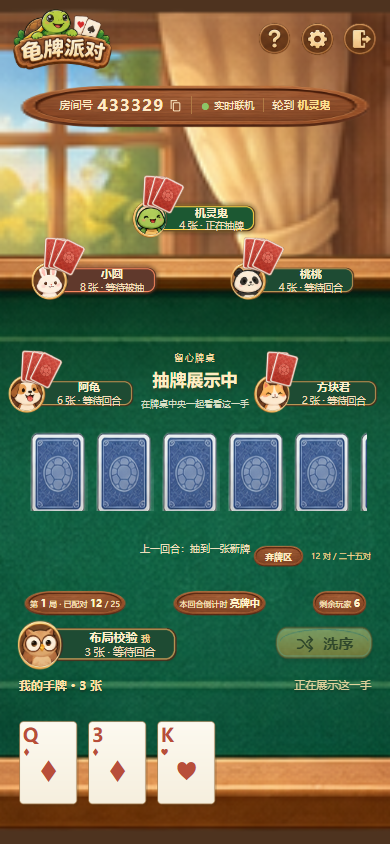
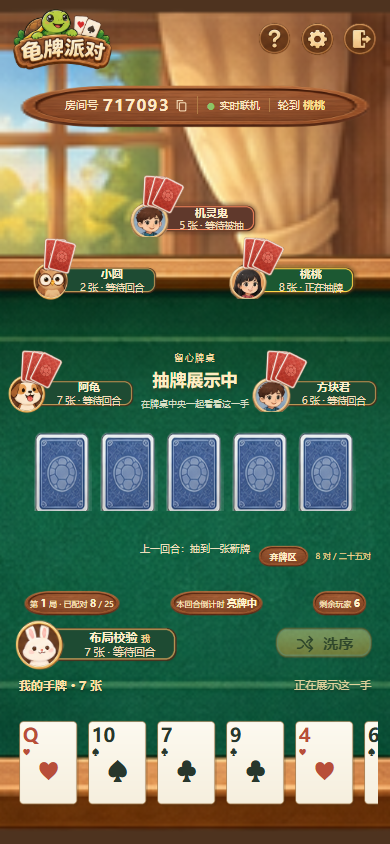
fix: simplify waiting seats and center card draws

diff --git a/public/style.css b/public/style.css
@@ -119,7 +119,7 @@ h1,h2,h3,p{ margin-top:0 }
 .lobby-dock{ height:125px; max-height:125px; display:flex; align-items:end }
 .own-welcome{ margin:0 0 27px 18px; font-size:12px; color:#e4d9ae; letter-spacing:.08em }
 .empty-hand{ padding:38px 20px; font-size:15px; font-weight:800; color:#f6ddb0; text-shadow:0 2px 2px #153b29 }
-.draw-area{ position:absolute; left:45%; top:40%; transform:translateX(-50%); width:min(68%,890px); min-height:220px; display:flex; flex-direction:column; align-items:center; z-index:6 }
+.draw-area{ position:absolute; left:50%; top:40%; transform:translateX(-50%); width:min(68%,890px); min-height:220px; display:flex; flex-direction:column; align-items:center; z-index:6 }
 .round-kicker{ font-size:11px; letter-spacing:.15em; margin-bottom:6px; color:#f4daa2; text-align:center }
 .round-title{ font-size:25px; line-height:1.4; font-weight:900; color:#ffedc2; text-shadow:0 3px 3px #24472f; text-align:center; margin-bottom:4px }
 .round-subtitle{ font-size:11px; color:#d8dfc5; text-align:center; margin-bottom:10px }
@@ -299,12 +299,12 @@ these rules only place assets and HTML. */ .sr-only{ position:absolute; width:1p
 
 
 .pair-effect:before{ content:""; position:absolute; inset:-40px -75px -30px; z-index:-1; opacity:.7; background:url('/assets/effects/gold_sparkles.png') center/contain no-repeat }
-.network-banner{ border:0; background:url('/assets/buttons/button_cream_blank_filled.png') center/100% 100% no-repeat; box-shadow:none; border-radius:0; padding:10px 25px }
+.network-banner{ border:0; background:url('/assets/buttons/button_cream_clean.png') center/100% 100% no-repeat; box-shadow:none; border-radius:0; padding:10px 25px }
 
 /* PNG controls: text sits inside the painted area, not the transparent canvas. */
-.btn{--control-h:52px;--control-font:16px;position:relative;display:inline-block;flex:none;height:var(--control-h);min-height:var(--control-h);min-width:142px;padding:0;border:0;border-radius:0;background:url('/assets/buttons/button_cream_blank_filled.png') center/100% 100% no-repeat;color:#582c10;font-size:var(--control-font);font-weight:800;line-height:1.15;white-space:nowrap;box-shadow:none;transition:transform .15s,filter .15s}
+.btn{--control-h:52px;--control-font:16px;position:relative;display:inline-block;flex:none;height:var(--control-h);min-height:var(--control-h);min-width:142px;padding:0;border:0;border-radius:0;background:url('/assets/buttons/button_cream_clean.png') center/100% 100% no-repeat;color:#582c10;font-size:var(--control-font);font-weight:800;line-height:1.15;white-space:nowrap;box-shadow:none;transition:transform .15s,filter .15s}
 .button-content{position:absolute;inset:14% 6% 20%;display:flex;align-items:center;justify-content:center;gap:8px;line-height:1.15}
-.btn-primary{background-image:url('/assets/buttons/button_gold_blank_filled.png')}
+.btn-primary{background-image:url('/assets/buttons/button_gold_clean.png')}
 .btn .icon{width:22px;height:22px}
 .btn:hover:not(:disabled){transform:translateY(-1px);filter:brightness(1.04)}
 .btn:active:not(:disabled){transform:translateY(1px)}
@@ -331,7 +331,7 @@ these rules only place assets and HTML. */ .sr-only{ position:absolute; width:1p
 .panel-body{min-width:0;max-height:calc(100svh - 44px - var(--art-top) - var(--art-bottom));overflow:auto;overscroll-behavior:contain;scrollbar-width:thin;scrollbar-color:#b48b55 transparent}
 .modal-layer{position:fixed;inset:0;display:grid;place-items:center;padding:16px;z-index:80}
 .modal-panel{width:min(480px,calc(100vw - 32px));max-height:calc(100svh - 32px)}
-.modal-close{position:absolute;right:6%;top:28%;width:28px;height:28px;padding:5px;pointer-events:auto;background:url('/assets/buttons/button_cream_blank_filled.png') center/100% 100% no-repeat}
+.modal-close{position:absolute;right:6%;top:28%;width:28px;height:28px;padding:5px;pointer-events:auto;background:url('/assets/buttons/button_cream_clean.png') center/100% 100% no-repeat}
 .modal-close .icon{width:18px;height:18px;color:#643919}
 .modal-intro{margin:0 0 16px;padding:0;color:#86613e;font-size:14px;line-height:1.65;text-align:center}
 .field{display:grid;grid-template-columns:84px minmax(0,1fr);align-items:center;gap:12px;margin:16px 0;text-align:left}
@@ -369,7 +369,7 @@ these rules only place assets and HTML. */ .sr-only{ position:absolute; width:1p
 .connection-tag[data-status="offline"]:before{color:#e9795a}
 
 /* The player PNG has a circular portrait at left and a fixed text-safe rectangle at right. */
-.seat{--seat-w:200px;position:absolute;left:var(--seat-x,50%);top:var(--seat-y,25%);transform:translate(-50%,-50%);width:var(--seat-w);height:calc(var(--seat-w) * .31034483);min-height:0;display:block;pointer-events:auto;background:url('/assets/players/player_card_blank_default.png') center/100% 100% no-repeat}
+.seat{--seat-w:200px;flex:0 0 auto;aspect-ratio:580/180;padding:0;position:absolute;left:var(--seat-x,50%);top:var(--seat-y,25%);transform:translate(-50%,-50%);width:var(--seat-w);height:calc(var(--seat-w) * .31034483);min-height:0;display:block;pointer-events:auto;background:url('/assets/players/player_card_blank_default.png') center/100% 100% no-repeat}
 .seat.active{background-image:url('/assets/players/player_card_blank_active.png')}
 .seat.target{background-image:url('/assets/players/player_card_blank_target.png')}
 .seat.out{background-image:url('/assets/players/player_card_blank_escaped.png');opacity:.85}
@@ -383,12 +383,12 @@ these rules only place assets and HTML. */ .sr-only{ position:absolute; width:1p
 .seat-fan{position:absolute;left:75%;top:-27px;display:flex;transform:rotate(15deg);z-index:1}
 .seat-fan i{display:block;flex:none;width:33px;height:47px;margin-left:-23px;background:url('/assets/cards/back_red_single.png') center/100% 100% no-repeat;transform:rotate(-12deg)}
 .seat-fan i:nth-child(2){transform:rotate(0deg)}.seat-fan i:nth-child(3){transform:rotate(12deg)}
-.empty-seat{display:flex;align-items:center;justify-content:center;padding-left:28%;opacity:.75}
-.empty-seat>span{color:#f2dfb7;font-size:13px;font-weight:700}
+
+
 .own-seat{--seat-w:190px;position:relative;left:auto;top:auto;transform:none;margin-bottom:12px}
 .own-seat .seat-fan{display:none}
 .own-dock{grid-template-columns:190px minmax(0,1fr) 116px}
-.remove-bot{position:absolute;right:-3px;top:-9px;display:grid;place-items:center;width:30px;height:30px;border:0;padding:4px;background:url('/assets/buttons/button_cream_blank_filled.png') center/100% 100% no-repeat;color:#733e25;z-index:4}
+.remove-bot{position:absolute;right:-3px;top:-9px;display:grid;place-items:center;width:30px;height:30px;border:0;padding:4px;background:url('/assets/buttons/button_cream_clean.png') center/100% 100% no-repeat;color:#733e25;z-index:4}
 .remove-bot .icon{width:16px;height:16px}
 .remove-bot:after{content:"";position:absolute;inset:-7px}
 .dock-title{font-size:13px}.dock-sub{font-size:12px}

diff --git a/public/app.js b/public/app.js
@@ -9,7 +9,7 @@ const state = {
   busy:false, toastTimeout:null, dragged:null, touchDrag:null,
   effectActive:null, queuedSnapshot:null, waitingUntil:0, lastEffectKey:null,
   dialog:null, dialogKey:null, sceneMode:null,
-  preferences:{sound:localStorage.getItem('turtle-sound')==='on',reduceMotion:localStorage.getItem('turtle-reduce-motion')==='on'}
+  preferences:{sound:localStorage.getItem('turtle-sound')!=='off',reduceMotion:localStorage.getItem('turtle-reduce-motion')==='on'}
 };
 const h = (str='') => String(str).replace(/[&<>"']/g,c=>({'&':'&amp;','<':'&lt;','>':'&gt;','"':'&quot;',"'":'&#39;'}[c]));
 const getName = () => localStorage.getItem('turtle-name') || '玩家';
@@ -347,7 +347,7 @@ function tableSeats(v,lobby=false) {
   const mine=v.players.findIndex(p=>p.id===v.myId);
   return `<div class="seat-ring" data-capacity="${v.capacity}">${positions[v.capacity].map(([x,y],i)=>{
     const player=v.players[(mine+i+1)%v.capacity];
-    return player?seat(player,v,lobby,`--seat-x:${x}%;--seat-y:${y}%`):`<div class="seat empty-seat" style="--seat-x:${x}%;--seat-y:${y}%"><span>空位</span></div>`;
+    return player?seat(player,v,lobby,`--seat-x:${x}%;--seat-y:${y}%`):'<span class="seat-slot" hidden aria-hidden="true"></span>';
   }).join('')}</div>`;
 }
 function roomView(v) {
@@ -424,11 +424,19 @@ function finishView(v) {
 const pause = ms => new Promise(resolve=>setTimeout(resolve,ms));
 const reducedMotion = () => state.preferences.reduceMotion || window.matchMedia?.('(prefers-reduced-motion: reduce)').matches;
 let audioContext=null;
+function unlockAudio() {
+  if(!state.preferences.sound)return null;
+  const Audio=window.AudioContext||window.webkitAudioContext;if(!Audio)return null;
+  try {
+    audioContext ||= new Audio();
+    void audioContext.resume().catch(()=>{});
+    return audioContext;
+  }catch{return null;}
+}
 function playTone(kind) {
   if(!state.preferences.sound||document.hidden)return;
-  const Audio=window.AudioContext||window.webkitAudioContext;if(!Audio)return;
+  if(!unlockAudio()||audioContext.state!=='running')return;
   try {
-    audioContext ||= new Audio();void audioContext.resume();
     const frequencies=kind==='pair'?[660,880]:kind==='reveal'?[520]:[340];
     frequencies.forEach((frequency,index)=>{
       const oscillator=audioContext.createOscillator(),gain=audioContext.createGain();
@@ -438,7 +446,7 @@ function playTone(kind) {
       gain.gain.exponentialRampToValueAtTime(.001,time+.12);
       oscillator.connect(gain);gain.connect(audioContext.destination);oscillator.start(time);oscillator.stop(time+.13);
     });
-  }catch{state.preferences.sound=false;}
+  }catch{}
 }
 async function animateBox(el,frames,duration) {
   const reduce=reducedMotion();
@@ -660,6 +668,7 @@ async function handleUi(type) {
 }
 app.addEventListener('click',async event=> {
   const button=event.target.closest('[data-ui],[data-api],[data-slot]');if(!button||state.busy) return;
+  unlockAudio();
   if(button.dataset.ui) {await handleUi(button.dataset.ui);return;}
   if(button.hasAttribute('data-slot')) {
     if(!myTurn()) return;
@@ -685,6 +694,7 @@ app.addEventListener('click',async event=> {
 app.addEventListener('submit',async event=> {
   const form=event.target.closest('form[data-form]');if(!form) return;
   event.preventDefault();if(state.busy)return;
+  unlockAudio();
   const data=Object.fromEntries(new FormData(form));localStorage.setItem('turtle-name',data.name);
   const type=form.dataset.form;
   const error=form.querySelector('.form-error');

diff --git a/tests/ui.test.js b/tests/ui.test.js
@@ -4,7 +4,7 @@ import vm from 'node:vm';
 import {readFileSync} from 'node:fs';
 
 const source=readFileSync(new URL('../public/app.js',import.meta.url),'utf8');
-function ui() {
+function ui(stored={}) {
   let frame='';
   const content={innerHTML:''},dialog={innerHTML:'',querySelector:()=>null};
   const shell={dataset:{},classList:{toggle:()=>{}}};
@@ -13,7 +13,7 @@ function ui() {
     querySelectorAll:()=>[],addEventListener:()=>{}};
   const toast={textContent:'',classList:{add:()=>{},remove:()=>{}}};
   const document={querySelector:k=>k==='#app'?app:toast,querySelectorAll:()=>[],addEventListener:()=>{}};
-  const storage={getItem:()=>null,setItem:()=>{},removeItem:()=>{}};
+  const storage={getItem:key=>stored[key]??null,setItem:(key,value)=>{stored[key]=value;},removeItem:key=>{delete stored[key];}};
   const context=vm.createContext({document,localStorage:storage,setInterval:()=>{},
     setTimeout:()=>0,clearTimeout:()=>{},console,URL,encodeURIComponent});
   vm.runInContext(source,context,{filename:'app.js'});
@@ -85,4 +85,32 @@ test('牌面保留标准 A、J、Q、K，不把点数翻译成中文字符',()=>
   context.fixture=v;vm.runInContext('state.view=fixture;render();',context);
   const labels=[...app.innerHTML.matchAll(/class="value">([^<]+)</g)].map(match=>match[1]);
   assert.deepEqual(labels,['A','J','Q','K']);
+});
+
+test('音效默认开启，保留关闭选择且不堆积尚未激活的声音',()=>{
+  for(const [stored,expected] of [[{},true],[{'turtle-sound':'off'},false],[{'turtle-sound':'on'},true]]){
+    const {context}=ui(stored);
+    assert.equal(vm.runInContext('state.preferences.sound',context),expected);
+  }
+  const {context}=ui();let tones=0;
+  context.window={AudioContext:class {
+    state='suspended';
+    resume(){return Promise.resolve();}
+    createOscillator(){tones++;return {};}
+  }};
+  vm.runInContext("playTone('pair');playTone('pair');playTone('reveal');",context);
+  assert.equal(tones,0);
+});
+
+test('等待房间只显示已入座玩家，空位不绘制位置框',()=>{
+  const {app,context}=ui();const v=baseView();
+  v.phase='lobby';v.capacity=6;v.players=[v.players[0]];
+  context.fixture=v;vm.runInContext('state.view=fixture;render();',context);
+  assert.equal((app.innerHTML.match(/data-player-seat=/g)||[]).length,1);
+  assert.equal((app.innerHTML.match(/class="seat-slot" hidden/g)||[]).length,5);
+  assert.doesNotMatch(app.innerHTML,/空位/);
+  v.players.push({id:'p1',name:'新玩家',count:0,bot:false});
+  vm.runInContext('render();',context);
+  assert.equal((app.innerHTML.match(/data-player-seat=/g)||[]).length,2);
+  assert.equal((app.innerHTML.match(/class="seat-slot" hidden/g)||[]).length,4);
 });

diff --git a/public/mobile.css b/public/mobile.css
@@ -227,7 +227,7 @@
   .stat-chip{ font-size:8px; padding:4px 8px }
   .stat-chip strong{ font-size:10px }
   .lobby-hint{ font-size:9px }
-  .draw-area{ left:45%; top:45%; width:65%; min-height:0 }
+  .draw-area{ left:50%; top:45%; width:65%; min-height:0 }
   .round-kicker{ display:none }
   .round-title{ font-size:13px; line-height:1.35; margin-bottom:3px; max-width:94%; white-space:nowrap; overflow:hidden; text-overflow:ellipsis }
   .round-subtitle{ display:none }
@@ -474,7 +474,7 @@
  .own-dock{height:25%;max-height:208px;grid-template-columns:1fr auto;grid-template-rows:52px minmax(0,1fr);gap:0 8px}
  .shuffle-button{--control-h:42px;--control-font:15px;min-width:102px;width:102px;grid-row:1;grid-column:2;align-self:center;margin:0 3px 0 0}
  .dock-title{font-size:12px}.dock-sub{font-size:11px}
- .empty-seat{padding-left:28%}.empty-seat>span{font-size:11px}
+
  .remove-bot{width:26px;height:26px;right:-2px;top:-10px}
  .waiting-center{top:31%;width:88%;gap:12px}.hanging-sign{width:280px;height:58px;font-size:22px}.waiting-note{font-size:12px;margin-top:7px}
  .waiting-center .deck-stack{width:46px;height:58px}
@@ -495,7 +495,7 @@
  .seat-fan{top:-17px}.seat-fan i{width:24px;height:34px;margin-left:-17px}
  .own-seat{--seat-w:130px;margin-bottom:4px}.own-dock{grid-template-columns:130px minmax(0,1fr) 92px;gap:8px}
  .shuffle-button{--control-h:40px;--control-font:14px;min-width:92px;width:92px;margin-bottom:12px}
- .remove-bot{width:26px;height:26px;right:-2px;top:-10px}.empty-seat>span{font-size:11px}
+ .remove-bot{width:26px;height:26px;right:-2px;top:-10px}
  .waiting-center{top:32%;width:66%;gap:10px}.hanging-sign{width:246px;height:36px;font-size:17px;padding-bottom:2px}.waiting-note{display:none}.waiting-center .deck-stack{display:none}
  .room-actions .btn{--control-h:40px;--control-font:13px;min-width:126px}
  .start-button{--control-h:46px;--control-font:18px;width:210px}

diff --git a/docs/更新说明-v0.4.md b/docs/更新说明-v0.4.md
@@ -30,7 +30,7 @@
 - 创建/加入、设置、牌桌内玩法和退出确认改为弹窗，支持退出键和焦点循环。
 - 整包用户 PNG 原样解压至 public/assets，使用独立牌桌、头像、标志、装饰及无字底板，撤下此前 CSS 绘制的对应美术。动态内容仍由 HTML 渲染。
 - 每张扑克牌保持独立 DOM，接入真实翻牌、入手及配对入弃牌区动画；原始整页参考图和示例文字不用于运行界面。
-- 增加有界开局洗牌/发牌/初始配对反馈，以及默认关闭的轻柔音效和减少动态效果偏好；转屏清理旧动画坐标。
+- 增加有界开局洗牌/发牌/初始配对反馈，以及默认开启的轻柔音效和减少动态效果偏好；转屏清理旧动画坐标。
 - 补上六位数字加入校验、房间号碰撞验证，以及选牌者最后一条 SSE 断开时立即清除预览。
 
 ### 本轮验证
@@ -44,3 +44,7 @@
 弹窗与规则底板改用原始 PNG 的九宫格边框渲染，标题区固定且正文独立排布；按底图实际留白定位按钮文字。收敛多层冲突样式，统一控件、正文、标题和玩家信息的字号，并新增各类弹窗及六种视口的对齐断言。原始 PNG 未修改。
 
 恢复标准 A、J、Q、K 标记：此前的一、侍等中文替换不是新牌种，已经移除。界面文案仍使用中文。原生测试增至 33 项。
+
+## 等待座位、抽牌居中与默认音效
+
+按钮改用去除内部椭圆高光线的 PNG 副本，原始素材保留。未入座的定位不再绘制框，玩家加入后才显示；玩家信息框禁止 flex 压缩，保持素材宽高比。抽牌区与目标牌列均水平居中。轻柔音效默认开启，用户手动关闭后保留选择，在用户点击或提交时激活音频。原生测试增至 35 项，并在浏览器验证空位、比例、居中与音效偏好。

diff --git a/docs/抽牌交互与界面.md b/docs/抽牌交互与界面.md
@@ -75,5 +75,7 @@
 - 首页、等待和对局共用背景节点。创建、加入、设置、牌桌说明和退出确认使用弹窗，支持焦点循环及退出键关闭。
 - 二至六人围桌入座，开局保留座位并播放洗牌发牌反馈；公共弃牌区展示最近一对公开牌及累计对数。
 - 牌桌、头像、标志、装饰及无字底板直接引用 public/assets 中的 PNG。昵称、号码、牌数、倒计时、按钮文字与真实扑克牌点数由 HTML 渲染，每张牌保持独立元素。
-- 音效默认关闭，设置中可开启轻柔提示或减少动态效果，偏好仅保存在本机。转屏结束旧坐标动画，优先显示真实状态。
+- 轻柔音效默认开启，可手动关闭并保留本机选择；减少动态效果仍可单独设置。转屏结束旧坐标动画，优先显示真实状态。
 - 没有重新抠图或把整张参考效果图用作界面。对应关系见[素材接入说明](../public/assets/ASSET-USAGE.md)。
+
+抽牌区域在桌面和手机横竖屏均以牌桌中线对齐。未入座的位置不显示框，只有玩家加入后绘制玩家信息；已入座框按原 PNG 比例显示，不随剩余空间压扁。

diff --git a/README.en.md b/README.en.md
@@ -48,6 +48,6 @@ The earlier [v1.2 design document](docs/抽乌龟-游戏设计-v1.2.md) remains 
 
 ## Development and limitations
 
-Run `npm test` (33 tests) before submitting a pull request. CI checks Node.js 20 and 22. Optional `npm run test:browser` checks use a separately available Playwright installation, without adding a game runtime dependency; see the testing guide. Persistent room data is stored in a private JSON file and is safe for **one Node.js process only**. Do not commit `data/`. Browser sessions use `localStorage`; deploy behind HTTPS.
+Run `npm test` (35 tests) before submitting a pull request. CI checks Node.js 20 and 22. Optional `npm run test:browser` checks use a separately available Playwright installation, without adding a game runtime dependency; see the testing guide. Persistent room data is stored in a private JSON file and is safe for **one Node.js process only**. Do not commit `data/`. Browser sessions use `localStorage`; deploy behind HTTPS.
 
 **License:** No open-source license is currently granted. A public GitHub repository does not automatically authorize reuse or redistribution.

diff --git a/docs/大厅与房间.md b/docs/大厅与房间.md
@@ -56,6 +56,6 @@
 
 ## 沉浸式等待与断线预览
 
-创建和加入通过同场景弹窗完成，等待牌桌按容量显示围桌座位与空位。房主仍可添加、移除电脑并开局；邀请好友按钮复制房间号，不自动向任何人发送消息。
+创建和加入通过同场景弹窗完成，等待牌桌按容量保留座位定位，但只显示已入座玩家；未入座的位置不绘制空框。房主仍可添加、移除电脑并开局；邀请好友按钮复制房间号，不自动向任何人发送消息。
 
 选牌者最后一条实时连接断开时立即清除预览，座位、手牌、宽限及托管继续保留；还有其他有效实时连接时不误清除。预览不持久化，重启仍按真实牌局恢复。

diff --git a/docs/测试与验收.md b/docs/测试与验收.md
@@ -8,7 +8,7 @@
 npm test
 ```
 
-当前 **33 项测试**，涵盖：
+当前 **35 项测试**，涵盖：
 
 - 发牌、配对、合法抽牌、特殊残局及公平电脑。
 - 房间身份、选牌同步、公开翻牌、幂等、断线托管与重启。
